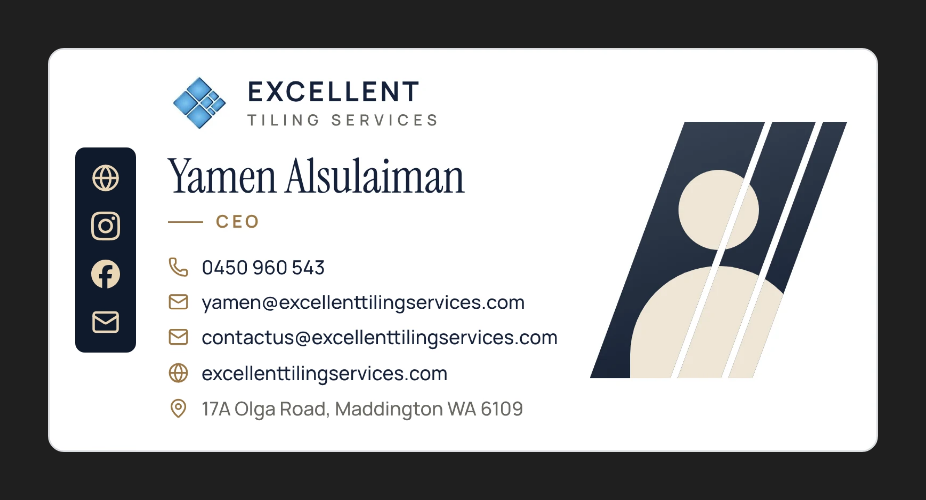
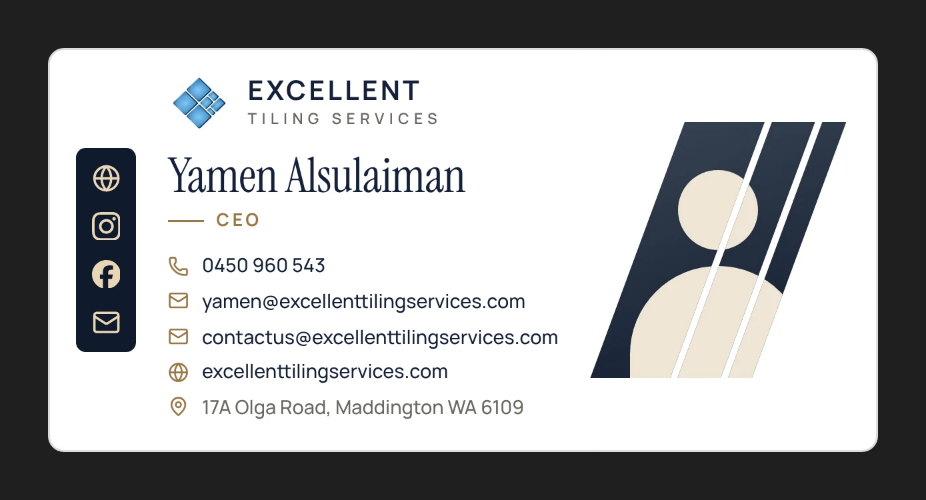
Email signature: owner's smaller pieces hosted, links updated
Claude-Session: https://claude.ai/code/session_01GgaKx3bXDJYD5g8dhmqHc3

diff --git a/marketing/email-signature/people/yamen-alsulaiman/signature.html b/marketing/email-signature/people/yamen-alsulaiman/signature.html
@@ -1,6 +1,6 @@
 <!-- ETS email signature for Yamen Alsulaiman. Made by build.js - edit there, not here. -->
 <table cellpadding="0" cellspacing="0" border="0" style="border-collapse:collapse;"><tr>
-<td style="padding:0;vertical-align:top;font-size:0;line-height:0;"><a href="https://excellenttilingservices.com" style="text-decoration:none;"><img src="https://cdn.shopify.com/s/files/1/0683/0292/9983/files/ets-sig-yamen-alsulaiman-strip-website.png?v=1794456637" width="44" height="77" alt="Website" style="display:block;border:0;outline:none;"></a><a href="https://www.instagram.com/excellent_tiling_services/" style="text-decoration:none;"><img src="https://cdn.shopify.com/s/files/1/0683/0292/9983/files/ets-sig-yamen-alsulaiman-strip-instagram.png?v=1794456637" width="44" height="24" alt="Instagram" style="display:block;border:0;outline:none;"></a><a href="https://www.facebook.com/share/1943ueL61k/" style="text-decoration:none;"><img src="https://cdn.shopify.com/s/files/1/0683/0292/9983/files/ets-sig-yamen-alsulaiman-strip-facebook.png?v=1794456637" width="44" height="24" alt="Facebook" style="display:block;border:0;outline:none;"></a><a href="mailto:yamen@excellenttilingservices.com" style="text-decoration:none;"><img src="https://cdn.shopify.com/s/files/1/0683/0292/9983/files/ets-sig-yamen-alsulaiman-strip-email.png?v=1794456637" width="44" height="77" alt="Email" style="display:block;border:0;outline:none;"></a></td>
-<td style="padding:0;vertical-align:top;font-size:0;line-height:0;"><a href="https://excellenttilingservices.com" style="text-decoration:none;"><img src="https://cdn.shopify.com/s/files/1/0683/0292/9983/files/ets-sig-yamen-alsulaiman-logo.png?v=1794456637" width="227" height="46" alt="Excellent Tiling Services" style="display:block;border:0;outline:none;"></a><img src="https://cdn.shopify.com/s/files/1/0683/0292/9983/files/ets-sig-yamen-alsulaiman-name.png?v=1794456637" width="227" height="51" alt="Yamen Alsulaiman, CEO" style="display:block;border:0;outline:none;"><a href="tel:+61450960543" style="text-decoration:none;"><img src="https://cdn.shopify.com/s/files/1/0683/0292/9983/files/ets-sig-yamen-alsulaiman-phone.png?v=1794456637" width="227" height="21" alt="0450 960 543" style="display:block;border:0;outline:none;"></a><a href="mailto:yamen@excellenttilingservices.com" style="text-decoration:none;"><img src="https://cdn.shopify.com/s/files/1/0683/0292/9983/files/ets-sig-yamen-alsulaiman-email.png?v=1794456637" width="227" height="17" alt="yamen@excellenttilingservices.com" style="display:block;border:0;outline:none;"></a><a href="mailto:contactus@excellenttilingservices.com" style="text-decoration:none;"><img src="https://cdn.shopify.com/s/files/1/0683/0292/9983/files/ets-sig-yamen-alsulaiman-shop-email.png?v=1794456638" width="227" height="18" alt="contactus@excellenttilingservices.com" style="display:block;border:0;outline:none;"></a><a href="https://excellenttilingservices.com" style="text-decoration:none;"><img src="https://cdn.shopify.com/s/files/1/0683/0292/9983/files/ets-sig-yamen-alsulaiman-website.png?v=1794456637" width="227" height="18" alt="excellenttilingservices.com" style="display:block;border:0;outline:none;"></a><a href="https://www.google.com/maps/search/?api=1&amp;amp;query=17A+Olga+Road+Maddington+WA+6109" style="text-decoration:none;"><img src="https://cdn.shopify.com/s/files/1/0683/0292/9983/files/ets-sig-yamen-alsulaiman-address.png?v=1794456637" width="227" height="31" alt="17A Olga Road, Maddington WA 6109" style="display:block;border:0;outline:none;"></a></td>
-<td style="padding:0;vertical-align:top;font-size:0;line-height:0;"><img src="https://cdn.shopify.com/s/files/1/0683/0292/9983/files/ets-sig-yamen-alsulaiman-photo.png?v=1794456637" width="144" height="202" alt="" style="display:block;border:0;outline:none;"></td>
+<td style="padding:0;vertical-align:top;font-size:0;line-height:0;"><a href="https://excellenttilingservices.com" style="text-decoration:none;"><img src="https://cdn.shopify.com/s/files/1/0683/0292/9983/files/ets-sig-yamen-alsulaiman-strip-website.png?v=1794456897" width="44" height="77" alt="Website" style="display:block;border:0;outline:none;"></a><a href="https://www.instagram.com/excellent_tiling_services/" style="text-decoration:none;"><img src="https://cdn.shopify.com/s/files/1/0683/0292/9983/files/ets-sig-yamen-alsulaiman-strip-instagram.png?v=1794456897" width="44" height="24" alt="Instagram" style="display:block;border:0;outline:none;"></a><a href="https://www.facebook.com/share/1943ueL61k/" style="text-decoration:none;"><img src="https://cdn.shopify.com/s/files/1/0683/0292/9983/files/ets-sig-yamen-alsulaiman-strip-facebook.png?v=1794456897" width="44" height="24" alt="Facebook" style="display:block;border:0;outline:none;"></a><a href="mailto:yamen@excellenttilingservices.com" style="text-decoration:none;"><img src="https://cdn.shopify.com/s/files/1/0683/0292/9983/files/ets-sig-yamen-alsulaiman-strip-email.png?v=1794456897" width="44" height="77" alt="Email" style="display:block;border:0;outline:none;"></a></td>
+<td style="padding:0;vertical-align:top;font-size:0;line-height:0;"><a href="https://excellenttilingservices.com" style="text-decoration:none;"><img src="https://cdn.shopify.com/s/files/1/0683/0292/9983/files/ets-sig-yamen-alsulaiman-logo.png?v=1794456897" width="227" height="46" alt="Excellent Tiling Services" style="display:block;border:0;outline:none;"></a><img src="https://cdn.shopify.com/s/files/1/0683/0292/9983/files/ets-sig-yamen-alsulaiman-name.png?v=1794456897" width="227" height="51" alt="Yamen Alsulaiman, CEO" style="display:block;border:0;outline:none;"><a href="tel:+61450960543" style="text-decoration:none;"><img src="https://cdn.shopify.com/s/files/1/0683/0292/9983/files/ets-sig-yamen-alsulaiman-phone.png?v=1794456897" width="227" height="21" alt="0450 960 543" style="display:block;border:0;outline:none;"></a><a href="mailto:yamen@excellenttilingservices.com" style="text-decoration:none;"><img src="https://cdn.shopify.com/s/files/1/0683/0292/9983/files/ets-sig-yamen-alsulaiman-email.png?v=1794456897" width="227" height="17" alt="yamen@excellenttilingservices.com" style="display:block;border:0;outline:none;"></a><a href="mailto:contactus@excellenttilingservices.com" style="text-decoration:none;"><img src="https://cdn.shopify.com/s/files/1/0683/0292/9983/files/ets-sig-yamen-alsulaiman-shop-email.png?v=1794456897" width="227" height="18" alt="contactus@excellenttilingservices.com" style="display:block;border:0;outline:none;"></a><a href="https://excellenttilingservices.com" style="text-decoration:none;"><img src="https://cdn.shopify.com/s/files/1/0683/0292/9983/files/ets-sig-yamen-alsulaiman-website.png?v=1794456897" width="227" height="18" alt="excellenttilingservices.com" style="display:block;border:0;outline:none;"></a><a href="https://www.google.com/maps/search/?api=1&amp;amp;query=17A+Olga+Road+Maddington+WA+6109" style="text-decoration:none;"><img src="https://cdn.shopify.com/s/files/1/0683/0292/9983/files/ets-sig-yamen-alsulaiman-address.png?v=1794456897" width="227" height="31" alt="17A Olga Road, Maddington WA 6109" style="display:block;border:0;outline:none;"></a></td>
+<td style="padding:0;vertical-align:top;font-size:0;line-height:0;"><img src="https://cdn.shopify.com/s/files/1/0683/0292/9983/files/ets-sig-yamen-alsulaiman-photo.png?v=1794456897" width="144" height="202" alt="" style="display:block;border:0;outline:none;"></td>
 </tr></table>

diff --git a/marketing/email-signature/README.md b/marketing/email-signature/README.md
@@ -35,7 +35,9 @@ Mail apps only show images that are hosted online, so before anyone can use a si
    Gmail: Settings > See all settings > Signature. Outlook.com / Hotmail: gear icon > Account > Signatures
    (older layout: Mail > Compose and reply). Apple Mail: Settings > Signatures.
 
-Any change to a person's details or photo means new pieces: upload again, update `hosted.json`, rebuild, paste again.
+Any change to a person's details or photo means new pieces. Replace the existing files in place with the Shopify
+`fileUpdate` mutation (`id` + new `originalSource`), read back the links (the `?v=` number changes), update
+`hosted.json`, rebuild, and paste again.
 
 ## How the look was made
 
@@ -73,6 +75,8 @@ Icons: Lucide (ISC licence) and Simple Icons (CC0). Fonts: Manrope and Instrumen
 - 2026-11-12: first version, built for the owner (Yamen Alsulaiman, CEO) with the stand-in figure until he has a photo.
   After a Hotmail dark-mode test showed the card recoloured, rebuilt as image pieces. With the owner's OK his 12
   pieces are on Shopify Files (`ets-sig-yamen-alsulaiman-*.png`) and linked in `hosted.json`.
+- 2026-11-12: card shrunk to 80% (415px wide, `SCALE` at the top of `build.js`) after the owner found 518px too big
+  in Outlook. His 12 files were replaced in place.
 - Leftovers on Shopify Files from the first version, no longer used: 11 files named `ets-signature-*.png`
   (logo, icons, name, placeholder). Safe to delete, but only on the owner's instruction.
 - Note: the colours were read from the live site, not from `theme/assets/ets-brand.css` in this repo, which still has
